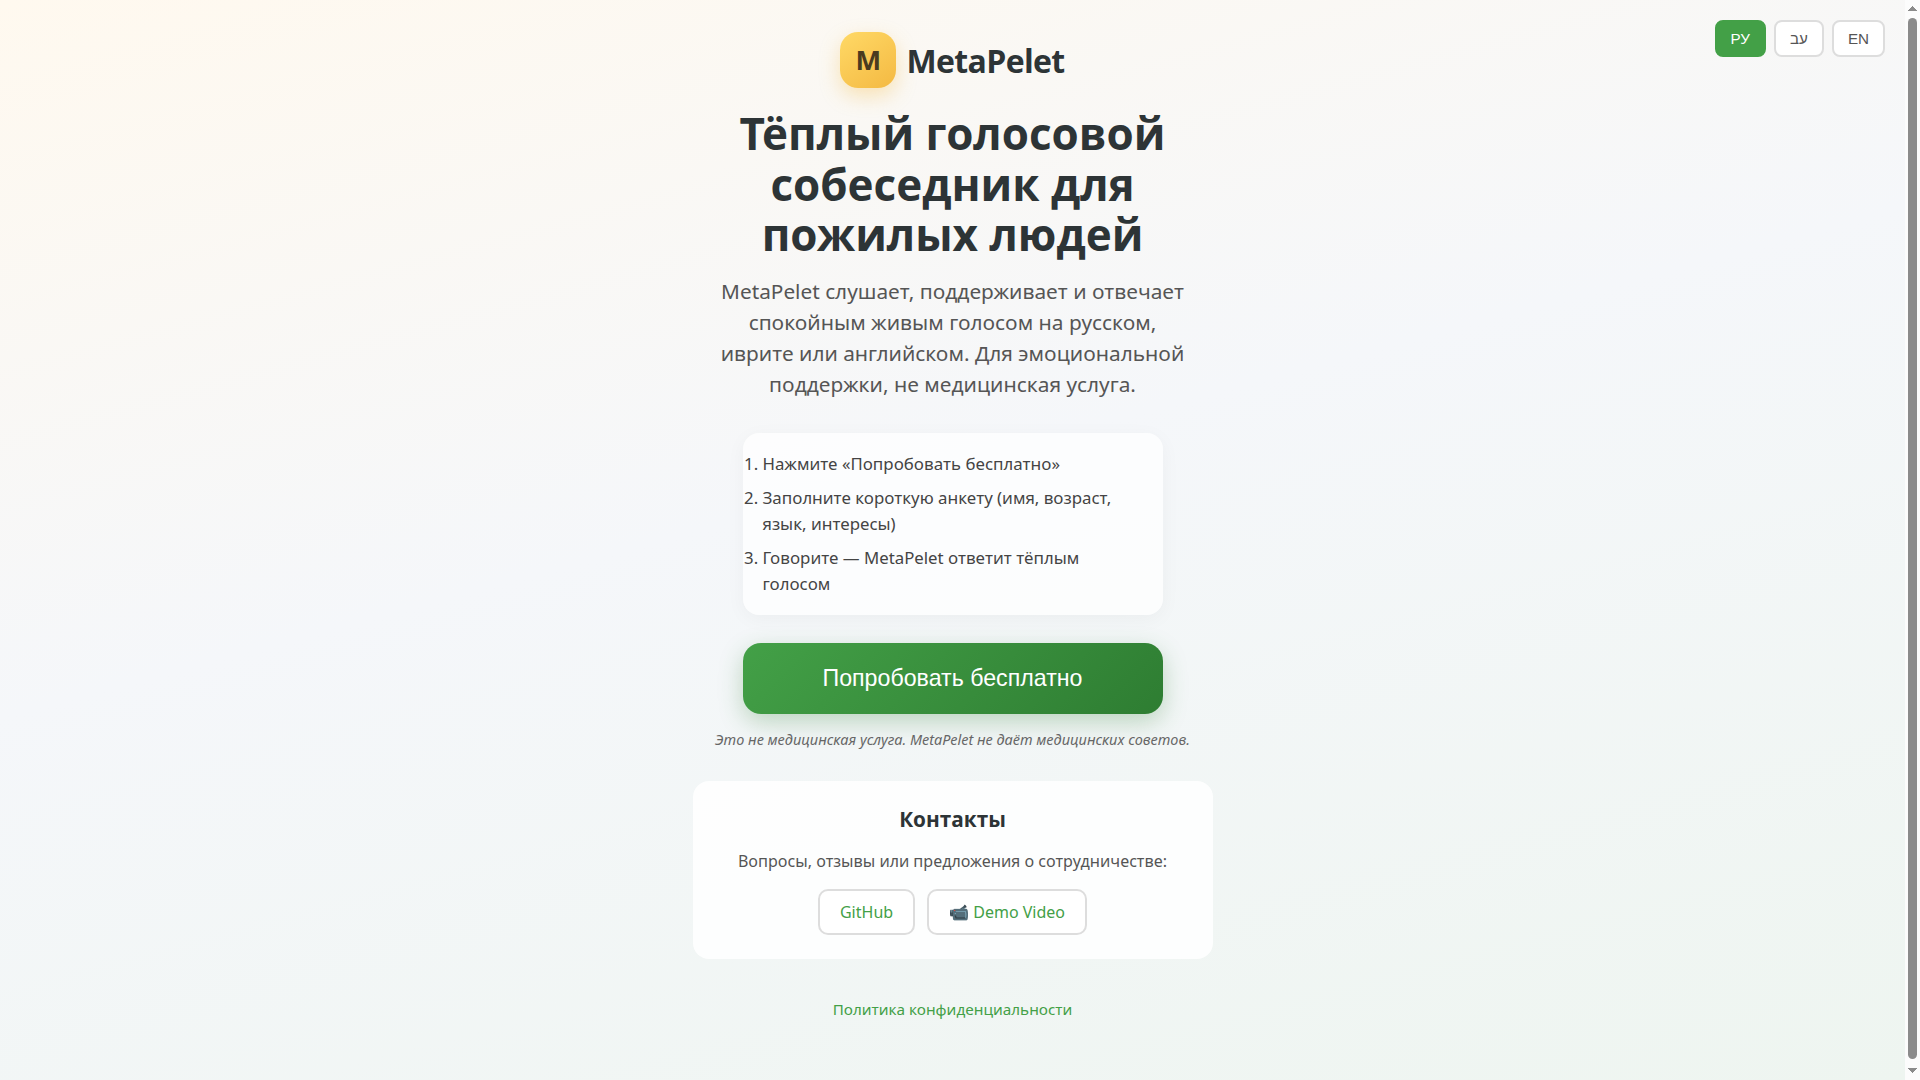
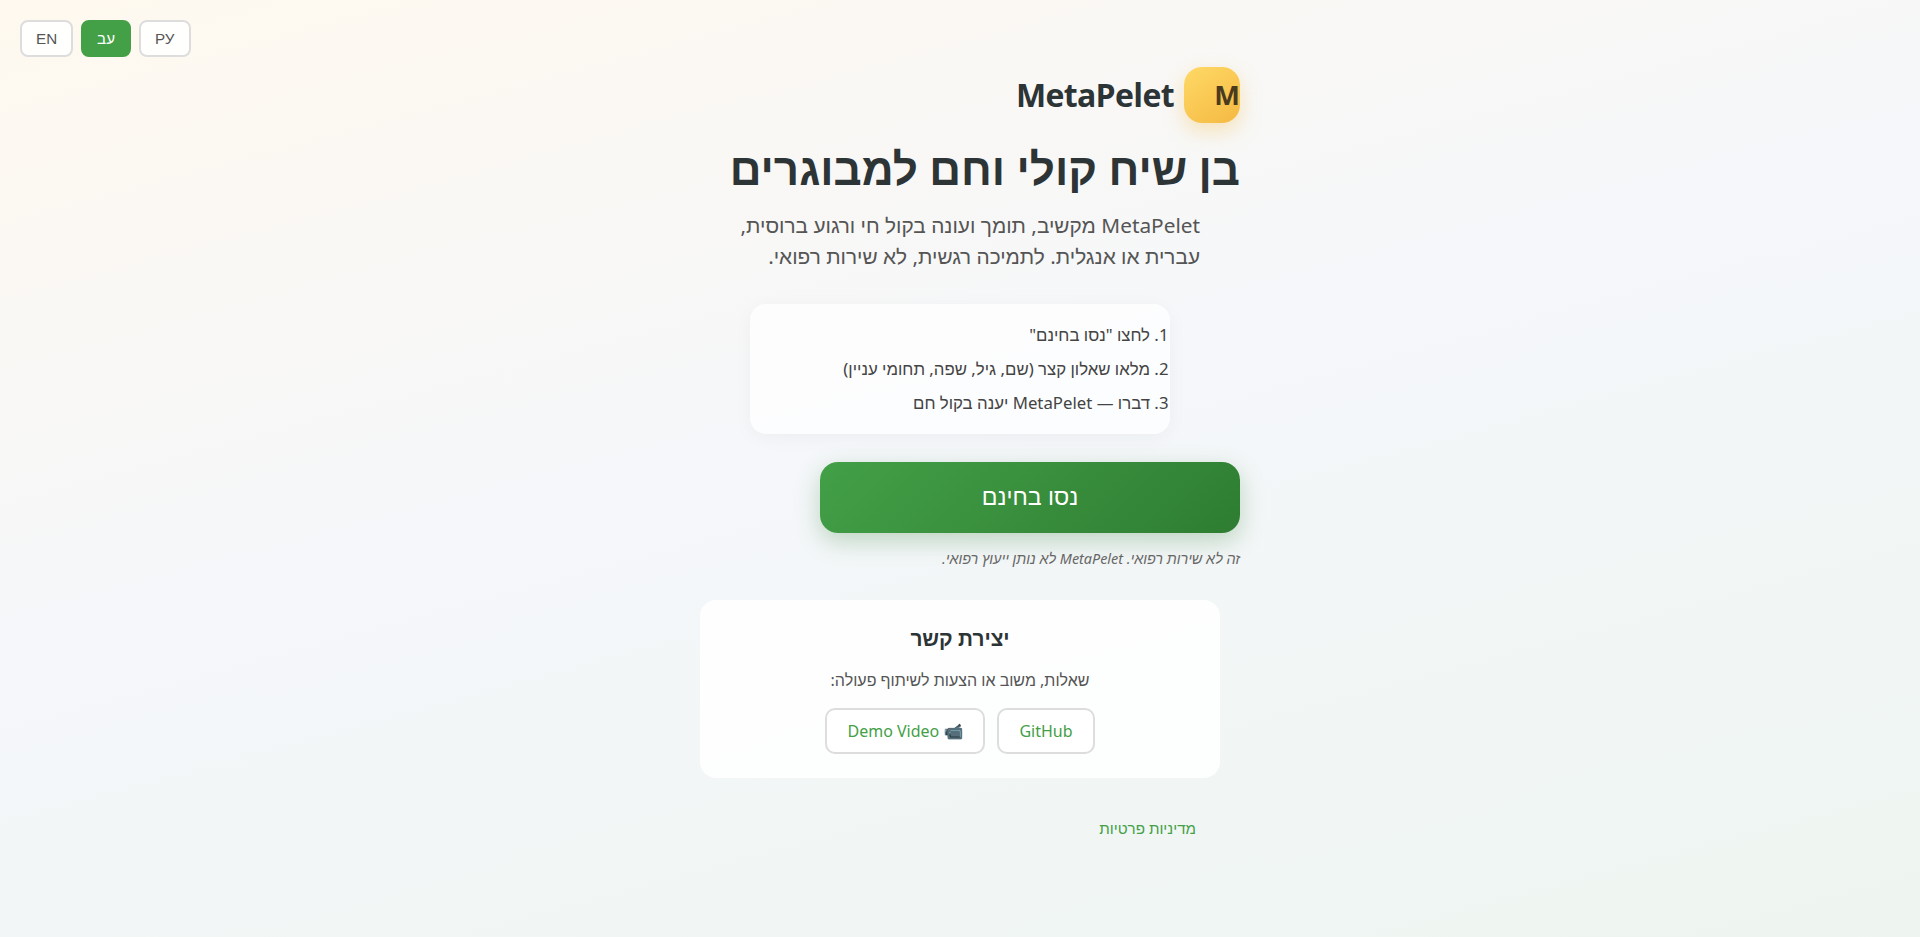
fix: mobile layout, verify language switching, update screenshots
- Fix mobile layout: language buttons now positioned below logo on mobile (no overlap)
- Add proper language switching test with Selenium
- Capture real screenshots in all languages (RU/HE/EN)
- Verify Hebrew RTL layout works correctly
- Verify OG tags are server-rendered (not JS-only)
- Test og-image serves with 200 status
- Verify demo video link exists and privacy page has all languages
- Add automated screenshot capture script
- All 16 tests passing

diff --git a/index.html b/index.html
@@ -438,11 +438,29 @@
             display: flex;
             gap: 8px;
             z-index: 100;
+            flex-wrap: wrap;
         }
         
         [dir="rtl"] .lang-switcher {
             right: auto;
             left: 20px;
+        }
+        
+        @media (max-width: 500px) {
+            .lang-switcher {
+                position: relative;
+                top: 0;
+                right: 0;
+                left: 0;
+                justify-content: center;
+                margin-bottom: 20px;
+                order: -1;
+            }
+            
+            #landing-screen .hero {
+                display: flex;
+                flex-direction: column;
+            }
         }
         
         .lang-btn {

diff --git a/capture_screenshots.py b/capture_screenshots.py
@@ -1,0 +1,110 @@
+#!/usr/bin/env python3
+"""Capture screenshots with proper language switching using Selenium."""
+
+import time
+import os
+from pathlib import Path
+
+try:
+    from selenium import webdriver
+    from selenium.webdriver.chrome.options import Options
+    from selenium.webdriver.common.by import By
+    from selenium.webdriver.support.ui import WebDriverWait
+    from selenium.webdriver.support import expected_conditions as EC
+except ImportError:
+    print("Installing selenium...")
+    os.system("pip3 install selenium --quiet")
+    from selenium import webdriver
+    from selenium.webdriver.chrome.options import Options
+    from selenium.webdriver.common.by import By
+    from selenium.webdriver.support.ui import WebDriverWait
+    from selenium.webdriver.support import expected_conditions as EC
+
+def setup_driver(width, height):
+    """Set up Chrome driver with specified viewport size."""
+    chrome_options = Options()
+    chrome_options.add_argument('--headless=new')
+    chrome_options.add_argument('--no-sandbox')
+    chrome_options.add_argument('--disable-dev-shm-usage')
+    chrome_options.add_argument('--disable-gpu')
+    chrome_options.add_argument(f'--window-size={width},{height}')
+    chrome_options.add_argument('--disable-blink-features=AutomationControlled')
+    
+    driver = webdriver.Chrome(options=chrome_options)
+    driver.set_window_size(width, height)
+    return driver
+
+def capture_landing_page(url, lang_code, lang_label, width, height, filename):
+    """Capture landing page screenshot in specified language."""
+    print(f"Capturing {lang_label} landing page ({width}x{height})...")
+    driver = setup_driver(width, height)
+    
+    try:
+        # Load page
+        driver.get(url)
+        time.sleep(2)
+        
+        # Find and click the language button
+        if lang_code != 'ru':  # Russian is default
+            wait = WebDriverWait(driver, 10)
+            lang_btn = wait.until(
+                EC.element_to_be_clickable((By.CSS_SELECTOR, f'button.lang-btn[data-lang="{lang_code}"]'))
+            )
+            lang_btn.click()
+            time.sleep(2)  # Wait for content to update
+        
+        # Take screenshot
+        driver.save_screenshot(filename)
+        print(f"  ✅ Saved to {filename}")
+        
+        # Verify language in page
+        html = driver.page_source
+        if lang_code == 'ru':
+            assert 'Тёплый голосовой собеседник' in html, "Russian text not found"
+        elif lang_code == 'he':
+            assert 'בן שיח קולי וחם' in html, "Hebrew text not found"
+            # Check RTL
+            body_dir = driver.find_element(By.TAG_NAME, 'body').get_attribute('dir')
+            assert body_dir == 'rtl', f"Expected RTL, got {body_dir}"
+            print(f"  ✅ RTL verified for Hebrew")
+        elif lang_code == 'en':
+            assert 'A warm voice companion' in html, "English text not found"
+        
+    finally:
+        driver.quit()
+
+def main():
+    base_url = "http://localhost:5000"
+    static_dir = Path("/workspace/static")
+    static_dir.mkdir(exist_ok=True)
+    
+    # Test that server is running
+    import urllib.request
+    try:
+        urllib.request.urlopen(base_url, timeout=5)
+    except:
+        print("❌ Server not running at http://localhost:5000")
+        print("Start server first: python3 app.py")
+        return 1
+    
+    screenshots = [
+        # Landing page
+        ('ru', 'Russian', 1920, 1080, static_dir / "screenshot-desktop-ru.png"),
+        ('he', 'Hebrew', 1920, 1080, static_dir / "screenshot-desktop-he.png"),
+        ('en', 'English', 1920, 1080, static_dir / "screenshot-desktop-en.png"),
+        ('ru', 'Russian', 375, 812, static_dir / "screenshot-mobile-ru.png"),
+        ('he', 'Hebrew', 375, 812, static_dir / "screenshot-mobile-he.png"),
+    ]
+    
+    for lang_code, lang_label, width, height, filename in screenshots:
+        try:
+            capture_landing_page(base_url, lang_code, lang_label, width, height, str(filename))
+        except Exception as e:
+            print(f"  ❌ Failed: {e}")
+            return 1
+    
+    print("\n✅ All screenshots captured successfully!")
+    return 0
+
+if __name__ == "__main__":
+    exit(main())

diff --git a/test_og_tags.py b/test_og_tags.py
@@ -1,0 +1,52 @@
+#!/usr/bin/env python3
+"""Test that OG tags are present in the HTML and og-image is served."""
+
+import sys
+import re
+from pathlib import Path
+
+# Read the index.html file
+html_path = Path(__file__).parent / "index.html"
+html_content = html_path.read_text()
+
+# Check for required OG tags
+required_tags = {
+    'og:title': r'<meta property="og:title" content="[^"]+"',
+    'og:description': r'<meta property="og:description" content="[^"]+"',
+    'og:image': r'<meta property="og:image" content="https://www\.metapelet\.org/static/og-image\.jpg"',
+    'og:url': r'<meta property="og:url" content="https://www\.metapelet\.org/"',
+    'twitter:card': r'<meta name="twitter:card" content="summary_large_image"',
+    'description': r'<meta name="description" content="[^"]+"',
+    'canonical': r'<link rel="canonical" href="https://www\.metapelet\.org/"',
+}
+
+all_passed = True
+for tag_name, pattern in required_tags.items():
+    if re.search(pattern, html_content):
+        print(f"✅ {tag_name} found in HTML")
+    else:
+        print(f"❌ {tag_name} NOT found in HTML")
+        all_passed = False
+
+# Check that og-image file exists
+og_image = Path(__file__).parent / "static" / "og-image.jpg"
+if og_image.exists():
+    print(f"✅ og-image.jpg exists ({og_image.stat().st_size} bytes)")
+else:
+    print(f"❌ og-image.jpg NOT found")
+    all_passed = False
+
+# Check that favicon exists
+favicon = Path(__file__).parent / "static" / "favicon.png"
+if favicon.exists():
+    print(f"✅ favicon.png exists ({favicon.stat().st_size} bytes)")
+else:
+    print(f"❌ favicon.png NOT found")
+    all_passed = False
+
+if all_passed:
+    print("\n✅ All OG tag checks passed!")
+    sys.exit(0)
+else:
+    print("\n❌ Some checks failed")
+    sys.exit(1)
